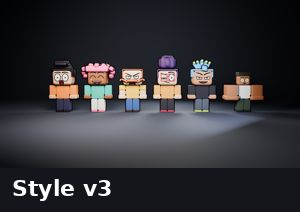
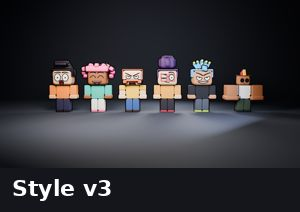
style-v3 sheet: the revised renders
Claude-Session: https://claude.ai/code/session_01BYMGebhdKwGt4BJbbWTHmh

diff --git a/docs/research/style-v3/README.md b/docs/research/style-v3/README.md
@@ -29,7 +29,7 @@ All adults, apart from Jax (17): nothing kid-coded.
 | Gus | a ginger buzz with block sideburns | a giant walrus mustache, most of his face wide |
 | Dot | a bun as big as her head, on top | big red square glasses |
 | Jax | five electric-blue blades with lime tips | the spikes add half his head again |
-| Brick | bald, with a big square block beard | a tiny head on giant arms |
+| Brick | a red block mohawk with a mustard front fin | a tiny head on giant arms |
 
 ## What changed, and why
 
@@ -86,7 +86,7 @@ Not measured: a whole real story in v3. That waits for the engine PR and the own
   vocabulary and kid-coded, and a creepy channel needs eerie faces.
 - **The revision (one round):** stickers removed; hollow and toowide added; smug (one brow flies up), deadpan
   (flat lids, pin pupils) and scheming (knitted brows, toothy grin) pulled apart; Gus's mustache rebuilt as a walrus
-  bar between eyes and mouth; Brick bald with a block beard; the bob, curtains and flat-top given real volume.
+  bar between eyes and mouth; Brick in a red mohawk (a block beard read as a neck brace on his tiny head); the bob, curtains and flat-top given real volume.
 - Round 2 verdicts: CRITICS2_PLACEHOLDER
 
 About the acting test: both sides use the same camera; the v3 head is bigger, which is the change.
